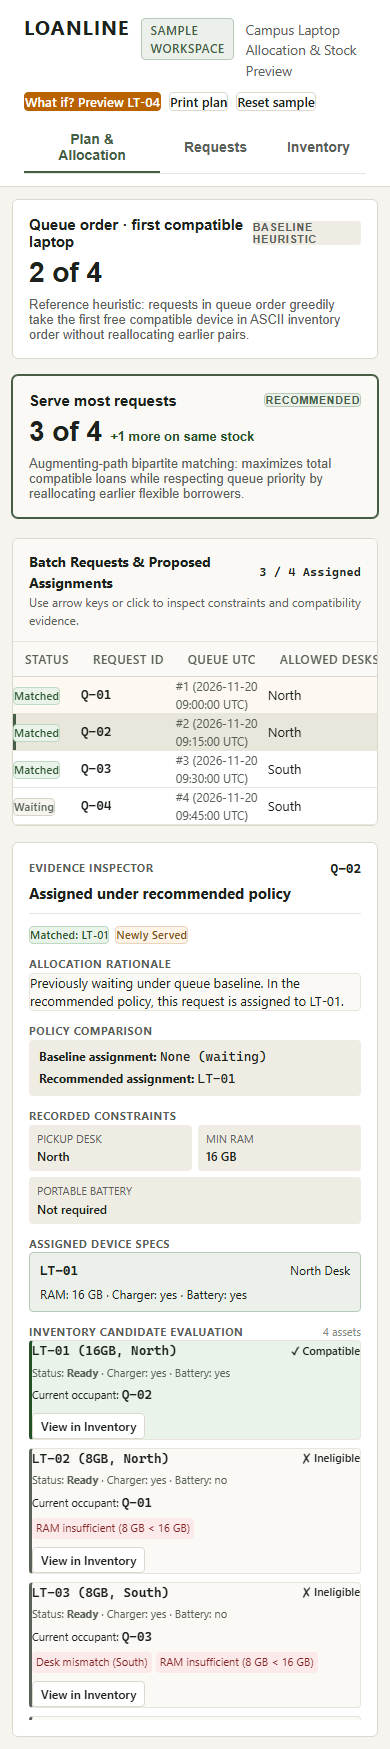
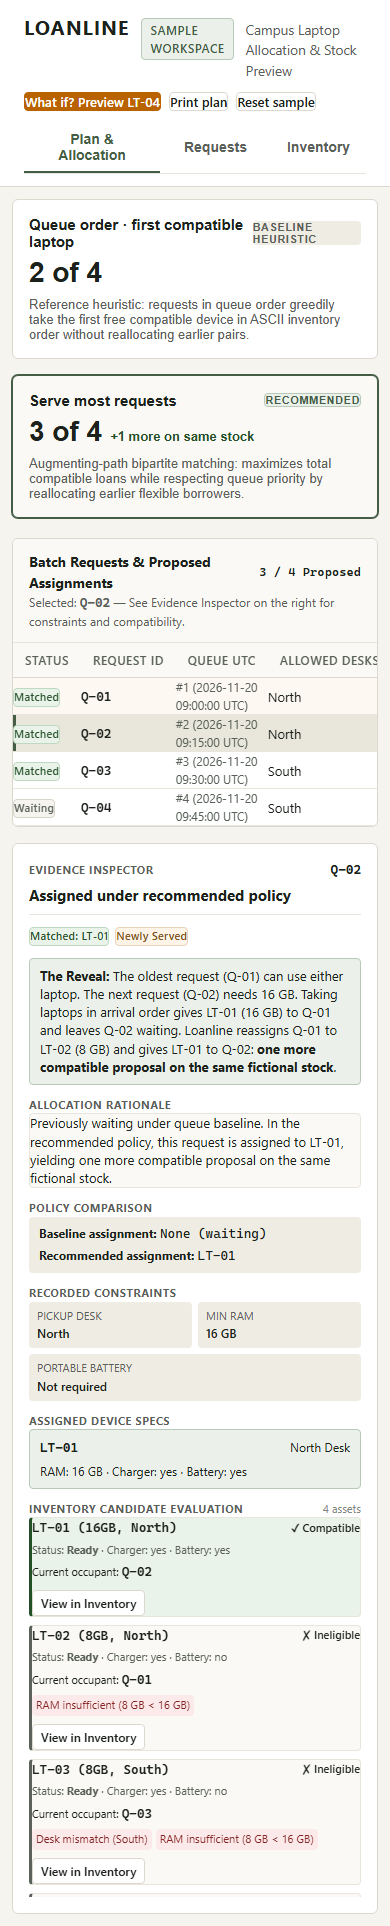
chore: refine public documentation, add Pages deployment workflow, and enhance Q-02 inspector visibility

diff --git a/e2e/loanline.spec.ts b/e2e/loanline.spec.ts
@@ -47,11 +47,13 @@ test.describe('Loanline E2E Verification & Judge Route', () => {
     const q4Row = page.locator('tr', { hasText: 'Q-04' });
     await expect(q4Row).toContainText('Waiting');
 
-    // 5. Verify Inspector for default selection (Q-02)
+    // 5. Verify Inspector for default selection (Q-02) - immediately visible on first screen
     const inspector = page.locator('.inspector-panel');
     await expect(inspector).toContainText('Q-02');
     await expect(inspector).toContainText('Assigned under recommended policy');
-    await expect(inspector).toContainText('Previously waiting under queue baseline');
+    await expect(inspector).toContainText('The Reveal: The oldest request (Q-01) can use either laptop');
+    await expect(inspector).toContainText('one more compatible proposal on the same fictional stock');
+    await expect(page.locator('.panel-subtitle')).toContainText('Selected: Q-02');
 
     // Capture screenshot: recommendation with Q-02 selected
     const q02ScreenshotPath = path.resolve(process.cwd(), 'docs/screenshots/q02-selected.png');
@@ -73,8 +75,15 @@ test.describe('Loanline E2E Verification & Judge Route', () => {
     await expect(previewBanner).toBeVisible();
     await expect(previewBanner).toContainText('PREVIEW ONLY');
     await expect(previewBanner).toContainText('Simulating LT-04 (Repair → Ready)');
-    await expect(previewBanner).toContainText('3 served → 4 served (+1 loans)');
+    await expect(previewBanner).toContainText('3 served → 4 served');
+    await expect(previewBanner).toContainText('+1 proposal on same stock');
     await expect(previewBanner).toContainText('Newly served: Q-04');
+
+    // Verify that print proposal remains at current 3-of-4 plan even during active preview
+    const printHeader = page.locator('.print-header');
+    await expect(printHeader).toContainText('3 of 4 requests served');
+    await expect(printHeader).toContainText('Exploratory repair simulations are excluded');
+    await expect(previewBanner).toHaveClass(/no-print/);
 
     // Capture screenshot: LT-04 repair preview
     const previewScreenshotPath = path.resolve(process.cwd(), 'docs/screenshots/repair-preview.png');
@@ -84,6 +93,10 @@ test.describe('Loanline E2E Verification & Judge Route', () => {
     const closePreviewBtn = page.getByRole('button', { name: /Close.*preview/i });
     await closePreviewBtn.click();
     await expect(previewBanner).not.toBeVisible();
+
+    // Verify view returns to 3 of 4
+    await expect(page.locator('.policy-card', { hasText: 'Serve most requests' })).toContainText('3 of 4');
+    await expect(page.locator('.badge-mono', { hasText: 'Proposed' })).toContainText('3 / 4 Proposed');
 
     // 8. Tab Navigation: Requests & Inventory
     const requestsTab = page.locator('.nav-tab', { hasText: 'Requests' });
@@ -111,7 +124,7 @@ test.describe('Loanline E2E Verification & Judge Route', () => {
     // 10. Switch policy to baseline and verify UI updates
     await baselineCard.click();
     await expect(baselineCard).toHaveClass(/active/);
-    await expect(page.locator('.badge-mono', { hasText: 'Assigned' })).toContainText('2 / 4 Assigned');
+    await expect(page.locator('.badge-mono', { hasText: 'Proposed' })).toContainText('2 / 4 Proposed');
 
     // Ensure zero uncaught errors
     expect(consoleErrors).toEqual([]);

diff --git a/src/components/PlanView.tsx b/src/components/PlanView.tsx
@@ -66,6 +66,9 @@ export const PlanView: React.FC<PlanViewProps> = ({
         <p>
           <strong>Selected Policy:</strong> {activeResult.policyName} ({activeResult.servedCount} of {activeResult.totalRequests} requests served)
         </p>
+        <p style={{ fontSize: '8pt', color: '#555555', marginTop: '2px' }}>
+          * Exploratory repair simulations are excluded from printed proposals. Reflects active adopted stock.
+        </p>
         <span className="print-disclaimer">
           Proposed assignment for review · Subject to physical asset check
         </span>
@@ -86,11 +89,11 @@ export const PlanView: React.FC<PlanViewProps> = ({
             <h2 className="panel-title">
               Batch Requests &amp; Proposed Assignments
               <span className="badge badge-mono">
-                {activeResult.servedCount} / {requests.length} Assigned
+                {activeResult.servedCount} / {requests.length} Proposed
               </span>
             </h2>
             <p className="panel-subtitle">
-              Use arrow keys or click to inspect constraints and compatibility evidence.
+              Selected: <strong className="mono-val">{selectedRequestId || 'None'}</strong> — See Evidence Inspector on the right for constraints and compatibility.
             </p>
           </div>
         </div>

diff --git a/src/domain/inspector.ts b/src/domain/inspector.ts
@@ -46,11 +46,11 @@ export function explainRequest(
     if (baselineAssetId === null) {
       statusCode = 'MATCHED_NEW';
       headline = 'Assigned under recommended policy';
-      summary = `Previously waiting under queue baseline. In the recommended policy, this request is assigned to ${currentAssetId}.`;
+      summary = `Previously waiting under queue baseline. In the recommended policy, this request is assigned to ${currentAssetId}, yielding one more compatible proposal on the same fictional stock.`;
     } else if (isChangedFromBaseline) {
       statusCode = 'MATCHED_REASSIGNED';
-      headline = 'Reassigned to unlock additional loan';
-      summary = `In baseline, this request received ${baselineAssetId}. Reassigned to ${currentAssetId} to free a scarce configuration for another request.`;
+      headline = 'Reassigned to unlock additional proposal';
+      summary = `In baseline, this request received ${baselineAssetId}. Reassigned to ${currentAssetId} to free a scarce configuration for another request, yielding one more compatible proposal on the same fictional stock.`;
     } else {
       statusCode = 'MATCHED_SAME';
       headline = 'Assigned compatible laptop';

diff --git a/src/components/Inspector.tsx b/src/components/Inspector.tsx
@@ -79,6 +79,23 @@ export const Inspector: React.FC<InspectorProps> = ({
           )}
         </div>
 
+        {/* First-Screen Callout for Q-02 */}
+        {selectedRequest.id === 'Q-02' && (
+          <div
+            style={{
+              backgroundColor: 'var(--color-olive-subtle)',
+              border: '1px solid var(--color-olive-border)',
+              borderRadius: '4px',
+              padding: '8px 10px',
+              fontSize: '0.8125rem',
+              color: 'var(--color-text-primary)',
+              lineHeight: 1.4,
+            }}
+          >
+            <strong>The Reveal:</strong> The oldest request (Q-01) can use either laptop. The next request (Q-02) needs 16 GB. Taking laptops in arrival order gives LT-01 (16 GB) to Q-01 and leaves Q-02 waiting. Loanline reassigns Q-01 to LT-02 (8 GB) and gives LT-01 to Q-02: <strong>one more compatible proposal on the same fictional stock</strong>.
+          </div>
+        )}
+
         {/* Narrative explanation */}
         <div className="inspector-section">
           <span className="inspector-label">Allocation Rationale</span>

diff --git a/src/components/RepairPreviewDrawer.tsx b/src/components/RepairPreviewDrawer.tsx
@@ -67,12 +67,12 @@ export const RepairPreviewDrawer: React.FC<RepairPreviewDrawerProps> = ({
         }}
       >
         <div>
-          <strong>Impact:</strong>{' '}
+          <strong>Stock preview:</strong>{' '}
           {preview.beforeServedCount} served →{' '}
           <span style={{ fontWeight: 700, color: 'var(--status-ready-text)' }}>
             {preview.afterServedCount} served
           </span>{' '}
-          ({diff >= 0 ? `+${diff}` : diff} loans)
+          ({diff >= 0 ? `+${diff}` : diff} proposal on same stock)
         </div>
 
         {preview.newlyServedRequestIds.length > 0 && (

diff --git a/docs/devpost.md b/docs/devpost.md
@@ -8,7 +8,7 @@
 - **Repository**: [Entrant GitHub URL — placeholder]
 - **Live Demo**: [Entrant Deployed Demo URL — placeholder]
 - **Video Walkthrough**: [Entrant Video Link — placeholder]
-- **Team Members**: Rhythm Sanghi (SVCE Indore · cs24.rhythmsanghi@svceindore.ac.in)
+- **Team Members**: Rhythm Sanghi (SVCE Indore · GitHub: [@Rhythm-Sanghi](https://github.com/Rhythm-Sanghi))
 
 ---
 
@@ -20,7 +20,7 @@ However, volunteer coordinators face a subtle matching puzzle: laptops arrive wi
 
 When coordinators assign laptops in simple arrival order, flexible students often consume scarce high-spec devices, stranding later students whose requirements can *only* be met by those machines. Furthermore, when requests wait, coordinators have had no way to simulate whether completing a pending bench repair would actually unblock someone or if other constraints would still leave them waiting.
 
-We built **Loanline** to give campus lending coordinators a legible, inspectable planning tool: see who can borrow, why anyone is left waiting, and which repair would help most.
+We built **Loanline** to give campus lending coordinators a legible, inspectable planning tool: see who can borrow, why anyone is left waiting, and which stock change would help.
 
 ---
 
@@ -28,13 +28,13 @@ We built **Loanline** to give campus lending coordinators a legible, inspectable
 
 1. **Dual Policy Batch Allocation**:
    - Compares the traditional arrival-order baseline (*"Queue order · first compatible laptop"*) against an optimized bipartite matching (*"Serve most requests"*).
-   - In our standard campus benchmark, Loanline increases served students from **2 of 4 to 3 of 4 on the exact same refurbished inventory**.
+   - In our standard campus benchmark, Loanline yields **one more compatible proposal on the same fictional stock** (increasing proposed assignments from 2 of 4 to 3 of 4).
 2. **Transparent Rationale Inspector**:
    - Coordinators can click any request to see its recorded constraints, evaluated inventory candidates, and a plain-language explanation of why it was assigned or why it waits.
-   - For reassigned borrowers, Loanline explicitly explains: *"In baseline, this request received LT-01. Reassigned to LT-02 to free a scarce configuration for another request."*
+   - For reassigned borrowers, Loanline explicitly explains: *"In baseline, this request received LT-01. Reassigned to LT-02 to free a scarce configuration for another request, yielding one more compatible proposal on the same fictional stock."*
 3. **"What if?" Stock Repair Simulation**:
    - Coordinators can preview the system-wide effect of completing a repair on a held laptop in a single click.
-   - Simulating the repair of `LT-04` instantly demonstrates an increase from **3 of 4 to 4 of 4 loans**, highlighting the newly served borrower.
+   - Simulating the repair of `LT-04` instantly demonstrates an increase from **3 of 4 to 4 of 4 proposed assignments**, highlighting the newly served borrower.
    - Previews are strictly non-mutating and excluded from official saved plans.
 4. **Privacy-Preserving Local Storage**:
    - Personal information (names, emails, phone numbers, disability or financial data) is excluded from the data model entirely.
@@ -62,7 +62,7 @@ We built **Loanline** to give campus lending coordinators a legible, inspectable
 
 | Judging Criterion | How Loanline Delivers | Exact Demo / Verification Moment |
 | :--- | :--- | :--- |
-| **Impact** | Increases device utilization for low-income and commuter students without purchasing new hardware. Direct repair preview helps technicians prioritize the workbench. | 12–35 sec in demo: 2 of 4 served becomes 3 of 4 served on the exact same stock. |
+| **Impact** | Demonstrates how inspectable matching and repair previews can unlock more compatible proposals without purchasing new hardware. | 12–35 sec in demo: shows one more compatible proposal on the same fictional stock (2 of 4 to 3 of 4). |
 | **Originality** | Combines inspectable transversal matroid matching with non-mutating bench repair simulations, addressing the specific operational workflow of campus lending desks. | Distinct from single-device allocators (Auxilium, connectivIT); focused on batch proposal transparency. |
 | **Technical Execution** | Zero-dependency TypeScript allocator, shared compatibility predicate, deterministic tie-breaking, and a seeded exponential brute-force test oracle. | `src/test/oracle.test.ts` (15 randomized trials matching the oracle) and 100% clean typecheck. |
 | **Usability** | Single-screen central work area with 340 px evidence inspector, keyboard row navigation (`ArrowUp`/`ArrowDown`), and inline error preservation on forms. | 1440 × 900 desktop and 390 px mobile view tested in Playwright without overflow. |
@@ -80,7 +80,7 @@ We built **Loanline** to give campus lending coordinators a legible, inspectable
 
 ## Accomplishments
 
-- Successfully proved that an augmenting-path allocator increases laptop lending capacity on identical physical inventory.
+- Demonstrated that an augmenting-path allocator produces one more compatible proposal on the same fictional stock.
 - Engineered a 100% client-side tool with zero tracking, zero API keys, and complete data privacy.
 - Passed 48 unit tests and 4 Playwright browser tests across desktop and mobile viewports with zero console errors.
 
@@ -93,9 +93,9 @@ We built **Loanline** to give campus lending coordinators a legible, inspectable
 
 ---
 
-## What's Next & Pilot Questions
+## What's Next & Coordinator Questions
 
-Before conducting a real pilot with campus lending desks, coordinators should address three open operational policy questions:
+Before any future field evaluation with campus lending desks, coordinators would need to address three open operational policy questions:
 1. *What defines "Ready"?* Is battery capacity tested under load, or is visual charging sufficient?
 2. *How is pickup desk access determined?* Can students travel between campuses, or must devices strictly stay at their home desk?
 3. *Is arrival timestamp the appropriate tie-breaker?* Or should academic/financial necessity override queue order?

diff --git a/docs/demo.md b/docs/demo.md
@@ -9,8 +9,8 @@ A timed 75–90 second demonstration script with exact click-by-click instructio
 | Time | On Screen | Action | Spoken Narration |
 | :--- | :--- | :--- | :--- |
 | **0:00 – 0:12** | Populated Workspace (`Plan & Allocation`) | Open app. Point to header badge `Sample workspace` and two pickup desks. | *"A campus laptop lending desk operates on limited, heterogeneous refurbished stock. A laptop that works for one student may be the only device that fits another."* |
-| **0:12 – 0:35** | Policy Cards & Q-02 Inspector | Toggle between `Queue order` (2 of 4) and `Serve most requests` (3 of 4). Highlight Q-02's row in table and inspector panel. | *"Under arrival order, Q-01 greedily takes our only 16 GB laptop, stranding Q-02 with no device. Loanline finds an augmenting path: Q-01 can use an 8 GB laptop, freeing the 16 GB unit for Q-02. One more student served on the exact same stock."* |
-| **0:35 – 0:58** | Q-04 Inspector & Repair Preview | Click row Q-04. Show `No compatible laptop` (needs battery at South). Click `What if? Preview LT-04`. | *"Q-04 still waits because South desk's LT-03 lacks battery verification and LT-04 is in repair. By previewing LT-04 as ready, the coordinator immediately sees that completing this single repair unlocks a fourth loan."* |
+| **0:12 – 0:35** | Policy Cards & Q-02 Inspector | Toggle between `Queue order` (2 of 4) and `Serve most requests` (3 of 4). Highlight Q-02's row in table and inspector panel. | *"Under arrival order, Q-01 greedily takes our only 16 GB laptop, stranding Q-02 with no device. Loanline finds an augmenting path: Q-01 can use an 8 GB laptop, freeing the 16 GB unit for Q-02. One more compatible proposal on the same fictional stock."* |
+| **0:35 – 0:58** | Q-04 Inspector & Repair Preview | Click row Q-04. Show `No compatible laptop` (needs battery at South). Click `What if? Preview LT-04`. | *"Q-04 still waits because South desk's LT-03 lacks battery verification and LT-04 is in repair. By previewing LT-04 as ready, the coordinator immediately sees that completing this single repair unlocks a fourth compatible proposal."* |
 | **0:58 – 1:15** | Preview Dismissal & Print Review | Click `✕ Close preview`. Click `Print plan` (or show print preview). | *"The preview is completely non-mutating: closing it restores our 3 of 4 baseline. When ready, the coordinator prints an official proposal for physical review before distributing devices."* |
 | **1:15 – 1:30** | Test Suite & Conclusion | Show terminal running `npm test` (all 48 tests passing) and GitHub Actions badge. | *"Every edge condition is mathematically verified against an exponential brute-force oracle. All data shown is fictional, and Loanline keeps personal information completely out of the system."* |
 
@@ -88,8 +88,10 @@ A timed 75–90 second demonstration script with exact click-by-click instructio
 ### 2. Describing Your Contribution
 > *"My core focus was building an inspectable, deterministic augmenting-path allocator in pure TypeScript. Rather than treating allocation as a black box, I formulated the problem as a transversal matroid and wrote a seeded brute-force oracle test suite to prove that our greedy queue traversal always matches the maximum reachable subset of students."*
 
-### 3. Pilot Metrics & Real-World Outreach
-If speaking to campus lending coordinators, frame a future pilot around these three measurable metrics:
-1. **Compatible loans completed per batch**: Percentage of distributed laptops that remain in active use without emergency returns.
-2. **Unmet request reasons**: Structured breakdown of why requests wait (e.g. 60% desk mismatch vs. 40% battery deficit), informing refurbishment priorities.
-3. **Coordinator review time per batch**: Reduction in manual spreadsheet cross-referencing prior to loan distribution.
+### 3. Exploratory Coordinator Questions & Verification Metrics
+If discussing this planning tool with campus lending coordinators, frame future exploration around these three operational questions:
+1. **Proposed assignments accepted without hardware mismatch**: Percentage of proposed matches that verify successfully upon physical inspection.
+2. **Unmet request reasons**: Structured breakdown of why requests wait (e.g. 60% desk mismatch vs. 40% battery deficit), informing bench repairs.
+3. **Coordinator inspection time per batch**: Reduction in manual spreadsheet cross-referencing prior to equipment assignment.
+
+

diff --git a/README.md b/README.md
@@ -12,8 +12,8 @@ Campus laptop lending programs operate on limited, heterogeneous refurbished inv
 
 ### The Competition Benchmark Reveal:
 - **Arrival Order Baseline**: The oldest request (`Q-01`, 8 GB min at North) greedily takes the first matching laptop (`LT-01`, 16 GB). The next request (`Q-02`, 16 GB min at North) is left waiting because no other 16 GB laptop exists. Result: **2 of 4 requests served**.
-- **Loanline Recommended Matching**: Reassigns `Q-01` to `LT-02` (8 GB) and allocates `LT-01` (16 GB) to `Q-02`. Both students are served. Result: **3 of 4 requests served on the exact same stock**.
-- **"What if?" Stock Preview**: Request `Q-04` still waits because South desk's `LT-03` lacks verified battery and `LT-04` is in repair. By simulating completing repair on `LT-04`, Loanline shows that a 4th loan is instantly unlocked (**4 of 4 requests served**).
+- **Loanline Recommended Matching**: Reassigns `Q-01` to `LT-02` (8 GB) and allocates `LT-01` (16 GB) to `Q-02`. Both students are served. Result: **3 of 4 requests served — one more compatible proposal on the same fictional stock**.
+- **"What if?" Stock Preview**: Request `Q-04` still waits because South desk's `LT-03` lacks verified battery and `LT-04` is in repair. By simulating completing repair on `LT-04`, Loanline previews serving the fourth request (**4 of 4 requests proposed**).
 
 ![Repair Preview Simulation](docs/screenshots/repair-preview.png)
 
@@ -23,7 +23,7 @@ Campus laptop lending programs operate on limited, heterogeneous refurbished inv
 
 - **Dual-Policy Comparison**: Side-by-side comparison of arrival order first-fit vs. maximum-cardinality augmenting-path matching.
 - **Evidence Inspector**: Explains every assignment or waitlist status using tested, structured reason codes (`MATCHED_REASSIGNED`, `WAITING_NO_COMPATIBLE`, `WAITING_COMPETITION`).
-- **Non-Mutating "What If?" Preview**: Test the impact of repairing held laptops on an in-memory clone without altering saved state.
+- **Non-Mutating "What If?" Preview**: Preview how repairing held stock affects allocation proposals on an in-memory clone without altering saved state.
 - **Privacy-Preserving Architecture**: Zero personally identifiable information (no names, emails, phone numbers, or income records). Data is stored locally in the browser profile via versioned `localStorage`.
 - **Review-Ready Printing**: CSS print rules (`@media print`) format an official allocation proposal for volunteer desk handoff, clearly marked as *"PROPOSED ASSIGNMENT FOR REVIEW · NON-FINAL"*.
 - **Responsive Mobile Layout**: Fully usable at 390 px mobile viewports for floor volunteers with handheld devices.

diff --git a/docs/algorithm.md b/docs/algorithm.md
@@ -97,7 +97,7 @@ Consider the official competition fixture:
 When the coordinator simulates completing the repair on `LT-04` (`Repair` $\to$ `Ready`):
 - `LT-04` becomes eligible for `Q-04` (South, 8 GB, verified battery, verified charger).
 - Augmenting path $\text{Q-04} \to \text{LT-04}$ immediately succeeds.
-- Total served increases from **3 of 4** to **4 of 4** (+1 loan).
+- Total served increases from **3 of 4** to **4 of 4** (+1 compatible proposal on the same fictional stock).
 
 ---
 
@@ -151,3 +151,4 @@ A judge or reviewer can directly inspect these files in the workspace:
 - `src/test/allocator.test.ts`: Test cases covering the golden sample, multi-hop chains, reordering stability, and tie-breaking.
 - `src/test/oracle.test.ts`: Seeded brute-force oracle proving maximum cardinality and queue preference.
 - `src/test/inspector.test.ts`: Verification of explanation narratives and non-mutating preview behavior.
+

diff --git a/docs/credits.md b/docs/credits.md
@@ -7,8 +7,8 @@ This document provides a factual record of human contributions, AI assistance, d
 ## 1. Project Contributors
 
 - **Lead Entrant / Developer**: Rhythm Sanghi
-- **Affiliation / Institution**: SVCE Indore (cs24.rhythmsanghi@svceindore.ac.in)
-- **GitHub**: [Rhythm-Sanghi](https://github.com/Rhythm-Sanghi)
+- **Affiliation / Institution**: SVCE Indore
+- **GitHub**: [@Rhythm-Sanghi](https://github.com/Rhythm-Sanghi)
 
 *Note for Entrants: Ensure your team membership, student status, and age eligibility match the official Code for Change rules prior to final Devpost submission.*
 
